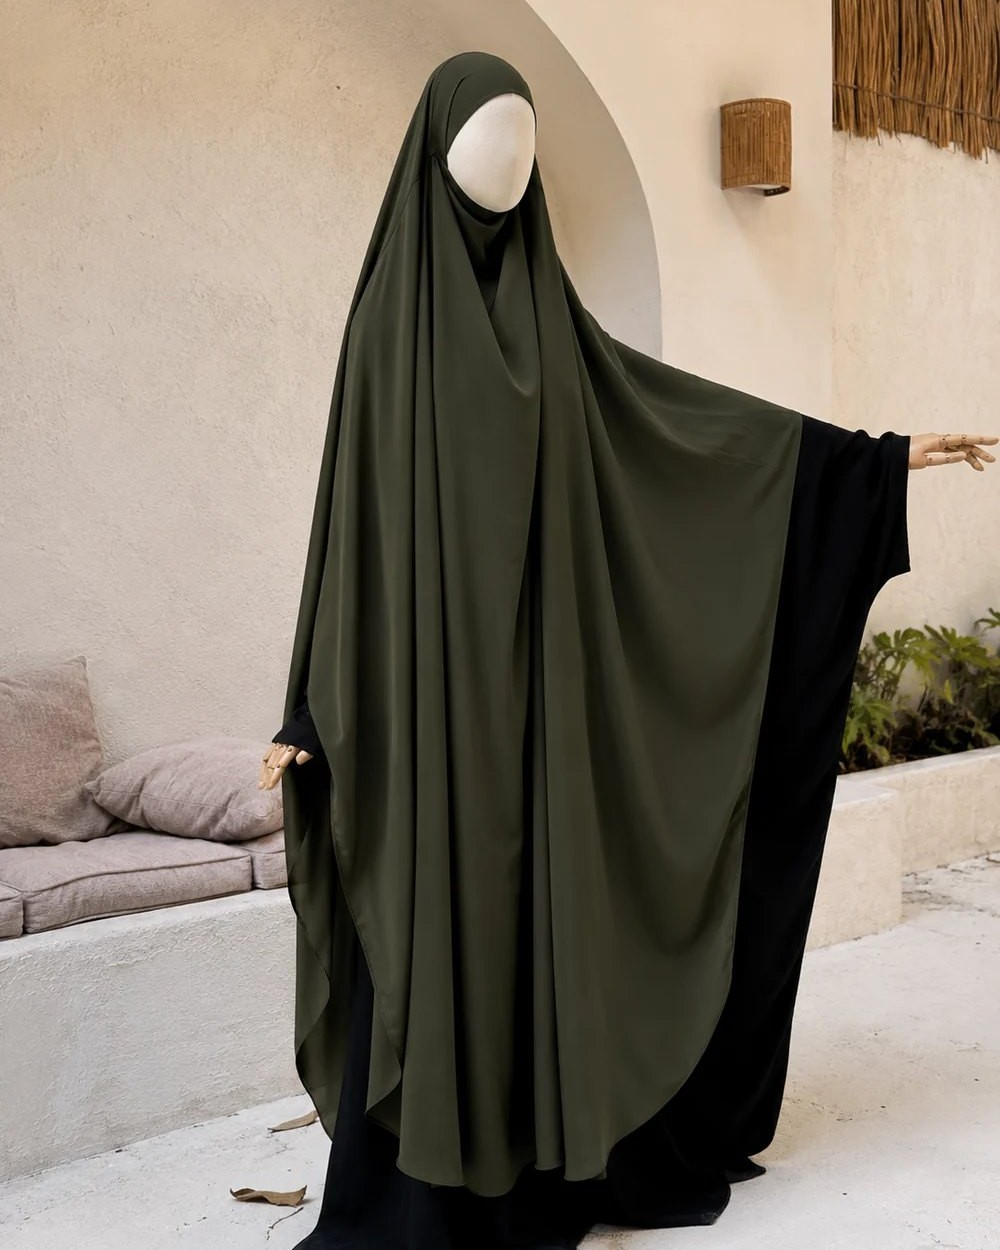
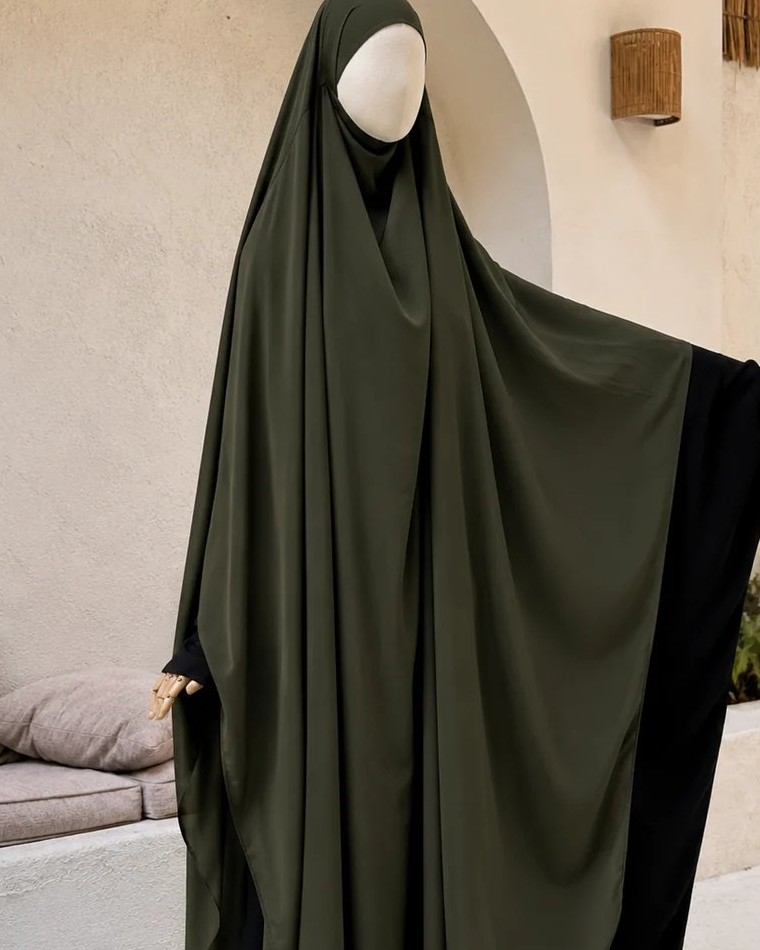
Neue Bilder für die Rauda-Linien, Cookie-Hinweis auf allen Seiten

diff --git a/index.html b/index.html
@@ -259,9 +259,9 @@ footer{position:relative;overflow:hidden;padding-top:50px}
     <h2 id="inspoT">Die Rauda-Linien</h2>
     <p class="lead">Drei Linien, ein Anspruch: weit, blickdicht und mit Sorgfalt für dich ausgewählt.</p>
     <div class="ins-grid">
-      <article class="ins"><a class="ph" href="shop.html?cat=schwestern"><img src="assets/home/linie-essentials.jpg" alt="‘Abāya in Schwarz an einer hellen Wand" loading="lazy"></a><h3>Rauda Essentials</h3><p>Schlichte Basismodelle für jeden Tag, sofort verfügbar.</p><a class="more" href="shop.html?cat=schwestern">Essentials entdecken</a></article>
-      <article class="ins"><a class="ph" href="shop.html?cat=khimar"><img src="assets/home/linie-signature.jpg" alt="Khimār in Oliv in einem hellen Innenhof" loading="lazy"></a><h3>Rauda Signature</h3><p>Besondere Stoffe und Details, auf Bestellung für dich gefertigt.</p><a class="more" href="shop.html?cat=khimar">Signature entdecken</a></article>
-      <article class="ins"><a class="ph" href="shop.html?cat=acc"><img src="assets/home/linie-madinah.jpg" alt="Grüne Kuppel und Minarette der Prophetenmoschee in Madinah" loading="lazy"></a><h3>Madinah Collection</h3><p>Pins, Lesezeichen und kleine Erinnerungen an die Stadt des Propheten ﷺ.</p><a class="more" href="shop.html?cat=acc">Zur Collection</a></article>
+      <article class="ins"><a class="ph" href="shop.html?cat=schwestern"><img src="assets/home/linie-essentials.jpg" alt="Khimār in Taupe in einem hellen Innenhof" loading="lazy"></a><h3>Rauda Essentials</h3><p>Schlichte Basismodelle für jeden Tag, sofort verfügbar.</p><a class="more" href="shop.html?cat=schwestern">Essentials entdecken</a></article>
+      <article class="ins"><a class="ph" href="shop.html?cat=khimar"><img src="assets/home/linie-signature.jpg" alt="Khimār in Oliv, Nahaufnahme des Stoffs" loading="lazy"></a><h3>Rauda Signature</h3><p>Besondere Stoffe und Details, auf Bestellung für dich gefertigt.</p><a class="more" href="shop.html?cat=khimar">Signature entdecken</a></article>
+      <article class="ins"><a class="ph" href="shop.html?cat=acc"><img src="assets/home/linie-madinah.jpg" alt="Beleuchtetes Minarett in Madinah mit Vögeln im Abendhimmel" loading="lazy"></a><h3>Madinah Collection</h3><p>Pins, Lesezeichen und kleine Erinnerungen an die Stadt des Propheten ﷺ.</p><a class="more" href="shop.html?cat=acc">Zur Collection</a></article>
     </div>
   </section>
 

diff --git a/assets/shop.js b/assets/shop.js
@@ -99,6 +99,23 @@ document.querySelectorAll('a[aria-label="Warenkorb"]').forEach(a=>{
 render();
 addEventListener('storage',e=>{if(e.key===KEY){try{cart=JSON.parse(e.newValue)||[]}catch(_){cart=[]}render()}});
 
+/* ── Cookie-Hinweis (einmalig) ── */
+(function(){
+  let seen=null;try{seen=localStorage.getItem('rauda-consent')}catch(e){}
+  if(seen)return;
+  document.body.insertAdjacentHTML('beforeend',`<div class="ck" role="dialog" aria-label="Cookies" aria-live="polite">
+    <div class="ck-in">
+      <p class="ck-t up">Cookies bei Rauda</p>
+      <p class="ck-p">Wir verwenden Cookies, damit dein Warenkorb und deine Einstellungen funktionieren. Mit deiner Zustimmung nutzen wir zusätzlich anonyme Statistiken, um Rauda für dich zu verbessern. Mehr dazu in unserer <a href="#">Datenschutzerklärung</a>.</p>
+      <div class="ck-b"><button class="ck-no">Nur notwendige</button><button class="ck-yes">Alle akzeptieren</button></div>
+    </div></div>`);
+  const ck=document.querySelector('.ck');
+  requestAnimationFrame(()=>setTimeout(()=>ck.classList.add('show'),700));
+  const close=v=>{try{localStorage.setItem('rauda-consent',v)}catch(e){}ck.classList.remove('show');setTimeout(()=>ck.remove(),600)};
+  ck.querySelector('.ck-no').onclick=()=>close('notwendig');
+  ck.querySelector('.ck-yes').onclick=()=>close('alle');
+})();
+
 /* ── Kaufansicht (produkt.html) ── */
 const root=document.getElementById('pdp');
 if(!root)return;

diff --git a/assets/shop.css b/assets/shop.css
@@ -45,6 +45,22 @@
 .c-more{display:block;width:100%;margin-top:14px;padding:6px;font-size:11px;color:#5f5f5f}
 .c-more:hover{color:var(--ink)}
 
+/* Cookie-Hinweis */
+.ck{position:fixed;left:24px;bottom:24px;z-index:60;width:min(420px,calc(100vw - 32px));background:#fff;box-shadow:0 18px 50px rgba(0,0,0,.12),0 0 0 1px rgba(0,0,0,.04);
+  opacity:0;transform:translateY(24px);transition:opacity .6s ease,transform .7s cubic-bezier(.2,.7,.2,1);pointer-events:none}
+.ck.show{opacity:1;transform:none;pointer-events:auto}
+.ck-in{padding:26px 26px 22px}
+.ck-t{font-size:11px;font-weight:500;letter-spacing:.06em}
+.ck-p{margin-top:12px;font-size:12px;line-height:1.65;color:#5f5f5f}
+.ck-p a{color:var(--ink);text-decoration:underline;text-underline-offset:3px}
+.ck-b{display:flex;gap:10px;margin-top:20px}
+.ck-b button{flex:1;padding:13px 10px;border-radius:999px;font-size:12px;letter-spacing:.01em;transition:background .3s,color .3s,border-color .3s}
+.ck-no{border:1px solid #d6d4cf}
+.ck-no:hover{border-color:var(--ink)}
+.ck-yes{background:var(--ink);color:#fff}
+.ck-yes:hover{background:#333}
+@media (max-width:560px){.ck{left:16px;bottom:16px}.ck-in{padding:22px 20px 18px}}
+
 /* Kaufansicht */
 .pdp{display:grid;grid-template-columns:1fr 1fr;padding-top:var(--bh);align-items:start}
 .pdp-gal{display:flex;flex-direction:column;gap:3px}
